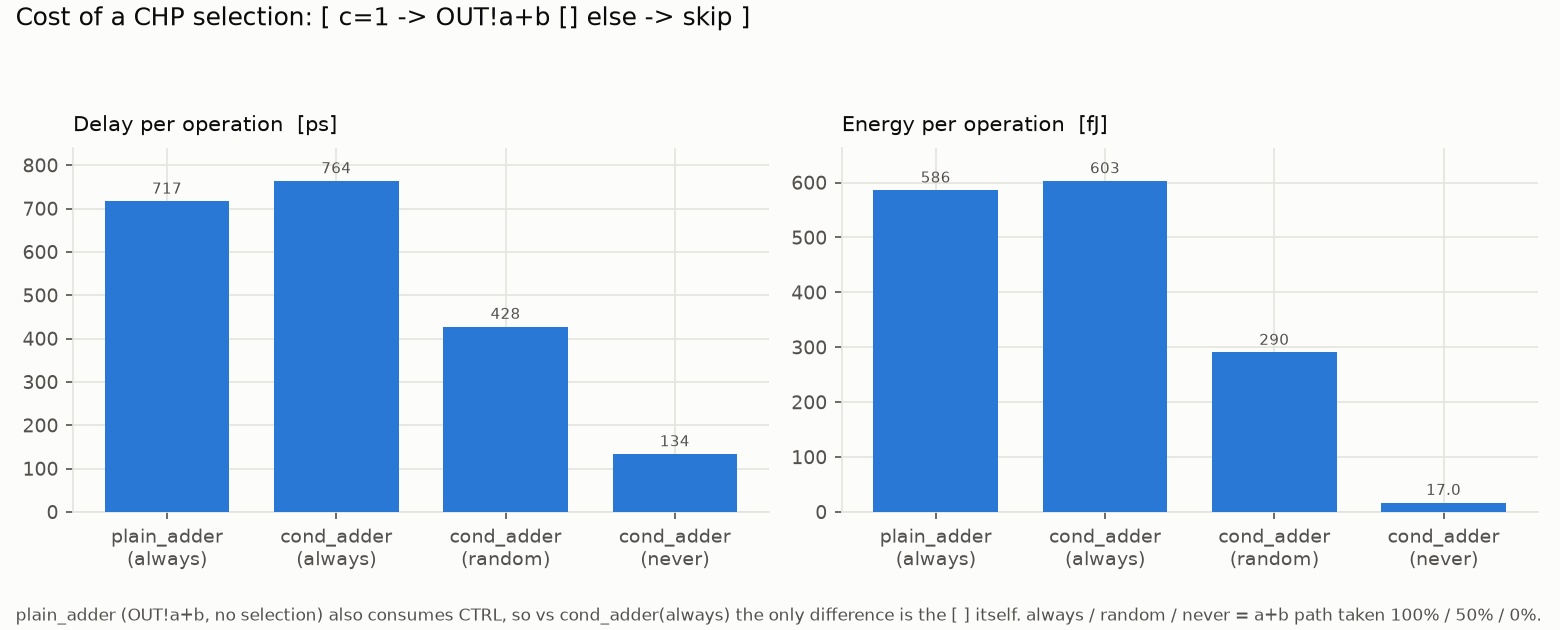
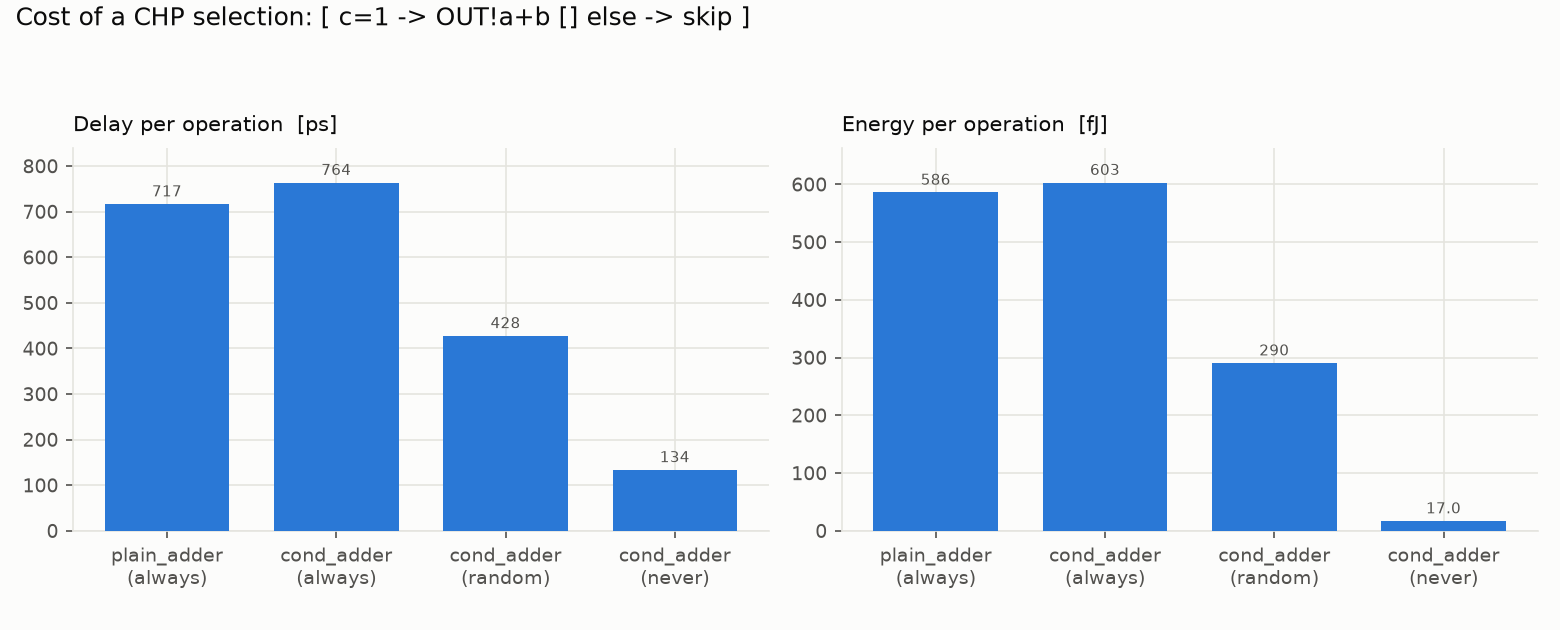
I like this version

diff --git a/scripts/plot.py b/scripts/plot.py
@@ -5,12 +5,11 @@ Plot the sweep results.
 Reads every sim/csv/<module>.csv written by sweep.py and renders:
 
   sim/plots/<module>.png        one panel per metric that actually has data
-  sim/plots/_compare_*.png      cross-module comparisons (the interesting ones)
+  sim/plots/merge.png           det_merge vs non_det_merge, one graph
+  sim/plots/_compare_*.png      other cross-module comparisons
 
-A metric panel is DROPPED, with a note on the figure, when the column is empty
-or all-zero. Under -Tgeneric the energy columns are all zero (see README), so
-you normally get delay only. That is deliberate: a flat line at zero is worse
-than an honest "no data".
+A metric panel is DROPPED only when the column has no numbers at all. All-zero data is drawn as zeros: e.g. synth2 charges no
+energy to a probed merge, and the plot shows that 0 rather than hiding it.
 
 Colours are the first three categorical slots of the data-viz reference palette,
 which are the documented all-pairs-safe subset -- correct here because these are
@@ -52,8 +51,7 @@ PLOT_SPEC = {
     "buffer":        dict(x="depth"),
     "copy":          dict(x="outDim"),
     "split":         dict(x="outDim"),
-    "det_merge":     dict(x="inDim"),
-    "non_det_merge": dict(x="inDim"),
+    # det_merge / non_det_merge have no plot of their own: they share merge.png.
     "xbar_det":      dict(x="ports", series="width"),
     "xbar_nd":       dict(x="ports", series="width"),
 }
@@ -87,8 +85,8 @@ def int_ticks(ax, values):
 
 
 # A panel whose largest value reaches 1000 in one of these units is drawn in
-# the next unit up, so energies read as 2.5 pJ rather than 2,505 fJ.
-UNIT_UP = {"fJ": "pJ"}
+# the next unit up, so it reads 2.5 pJ / 2.59 ns rather than 2,505 fJ / 2,591 ps.
+UNIT_UP = {"fJ": "pJ", "ps": "ns"}
 
 
 def panel_unit(frames, col, unit):
@@ -139,13 +137,17 @@ def label_points(ax, curves):
                         ha=ha, va=va, fontsize=7, color=INK2, zorder=4)
     # Headroom so the outermost labels stay inside the axes.
     ax.margins(y=0.14)
+    # All zeros: matplotlib would centre the axis on 0 with negative ticks.
+    if at and all(y == 0 for ys in at.values() for y in ys):
+        ax.set_ylim(-0.05, 1)
 
 
 def has_data(df, col):
+    """True if the column holds any number. Zeros count: a module synth2 charges
+    no energy (e.g. a probed merge) is drawn at 0, not hidden."""
     if col not in df.columns:
         return False
-    s = pd.to_numeric(df[col], errors="coerce").dropna()
-    return len(s) > 0 and (s != 0).any()
+    return pd.to_numeric(df[col], errors="coerce").notna().any()
 
 
 def draw_panel(ax, df, xcol, metric, label, unit, series_col=None):
@@ -189,7 +191,6 @@ def plot_module(module, df, spec):
     for fv in facets:
         d = df if fv is None else df[df[facet] == fv]
         live = [(c, l, u) for c, l, u in METRICS if has_data(d, c)]
-        missing = [l for c, l, u in METRICS if not has_data(d, c)]
         if not live:
             print(f"  {module}: no metric has data, skipped")
             continue
@@ -203,15 +204,12 @@ def plot_module(module, df, spec):
         name = module if fv is None else f"{module} ({facet}={int(fv)})"
         title = f"{name} - scaling in {d['tech'].iloc[0]} technology"
         fig.suptitle(title, color=INK, fontsize=12, x=0.01, ha="left", y=0.99)
-        if missing:
-            fig.text(0.01, 0.015, "no data: " + ", ".join(missing),
-                     color=INK2, fontsize=8)
         # A legend is mandatory whenever there are >= 2 series.
         h, lab = axes[0].get_legend_handles_labels()
         if len(lab) >= 2:
             fig.legend(h, lab, loc="upper right", frameon=False,
                        fontsize=9, labelcolor=INK2, ncol=len(lab))
-        fig.tight_layout(rect=[0, 0.04, 1, 0.93])
+        fig.tight_layout(rect=[0, 0.02, 1, 0.93])
         out = os.path.join(PLOTS, f"{module}.png" if fv is None
                            else f"{module}_{facet}{int(fv)}.png")
         fig.savefig(out, dpi=150, facecolor=SURFACE)
@@ -220,7 +218,7 @@ def plot_module(module, df, spec):
 
 
 def plot_compare(name, title, frames, xcol, xlabel):
-    """One panel per metric; one line per named data set."""
+    """One panel per metric; one line per named data set -> sim/plots/<name>.png"""
     frames = [(lbl, d) for lbl, d in frames if d is not None and not d.empty]
     if len(frames) < 2:
         return
@@ -251,7 +249,7 @@ def plot_compare(name, title, frames, xcol, xlabel):
     fig.legend(h, lab, loc="upper right", frameon=False, fontsize=9,
                labelcolor=INK2, ncol=len(lab))
     fig.tight_layout(rect=[0, 0.02, 1, 0.93])
-    out = os.path.join(PLOTS, f"_compare_{name}.png")
+    out = os.path.join(PLOTS, f"{name}.png")
     fig.savefig(out, dpi=150, facecolor=SURFACE)
     plt.close(fig)
     print(f"  {out}")
@@ -295,16 +293,11 @@ def plot_cond_select(df):
         style(ax)
     fig.suptitle("Cost of a CHP selection: [ c=1 -> OUT!a+b [] else -> skip ]",
                  color=INK, fontsize=12, x=0.01, ha="left", y=0.99)
-    fig.text(0.01, 0.015,
-             "plain_adder (OUT!a+b, no selection) also consumes CTRL, so vs "
-             "cond_adder(always) the only difference is the [ ] itself. "
-             "always / random / never = a+b path taken 100% / 50% / 0%.",
-             color=INK2, fontsize=8)
     h, lab = axes[0].get_legend_handles_labels()
     if len(lab) >= 2:
         fig.legend(h, lab, loc="upper right", frameon=False, fontsize=9,
                    labelcolor=INK2, ncol=len(lab))
-    fig.tight_layout(rect=[0, 0.05, 1, 0.93])
+    fig.tight_layout(rect=[0, 0.02, 1, 0.93])
     out = os.path.join(PLOTS, "cond_select.png")
     fig.savefig(out, dpi=150, facecolor=SURFACE)
     plt.close(fig)
@@ -340,7 +333,7 @@ def main():
     # --- the two comparisons worth making -----------------------------------
     dm, ndm = load("det_merge"), load("non_det_merge")
     plot_compare(
-        "merge_arbitration",
+        "merge",
         "What arbitration costs: controlled merge vs probed merge",
         [("det_merge (SEL-driven)", dm), ("non_det_merge (probes)", ndm)],
         "inDim", XLABEL["inDim"])
@@ -351,7 +344,7 @@ def main():
         w = sorted(set(xd["width"]) & set(xn["width"]))
         if w:
             plot_compare(
-                "crossbar_det_vs_probe",
+                "_compare_crossbar_det_vs_probe",
                 f"Crossbar scaling, deterministic vs probed (width={int(w[0])})",
                 [("xbar_det", xd[xd["width"] == w[0]]),
                  ("xbar_nd", xn[xn["width"] == w[0]])],

diff --git a/README.md b/README.md
@@ -7,7 +7,7 @@ and sweep its template parameters to get a scaling curve.
 ```bash
 make venv         # one-time: .venv with matplotlib + pandas (other targets do this on demand)
 make quick        # every curve (6 points), secondary axes pinned -- faster check
-make sweep        # the full sweep  -> sim/csv/*.csv  (JOBS=8 to parallelize)
+make sweep        # the full sweep  -> sim/csv/*.csv  (8 points at once; JOBS=1 to serialize)
 make plot         # render           -> sim/plots/*.png
 make help         # targets and variables
 ```
@@ -35,7 +35,7 @@ every tool command lives in the Makefile (the *Tool commands* block).
 
    Each stage logs to `<stage>.log`, its wall time to `<stage>.time`, and
    touches its `.done` file only on success. Points are independent, so
-   `make sweep JOBS=8` runs 8 at once, and a single point can be rerun by hand:
+   `make sweep` runs 8 at once (`JOBS=`), and a single point can be rerun by hand:
    `make sim/work/multiplier/width8/sim.done`.
 
 3. **Collect** -- `sweep.py collect` runs `scripts/extract_metrics.py` on each
